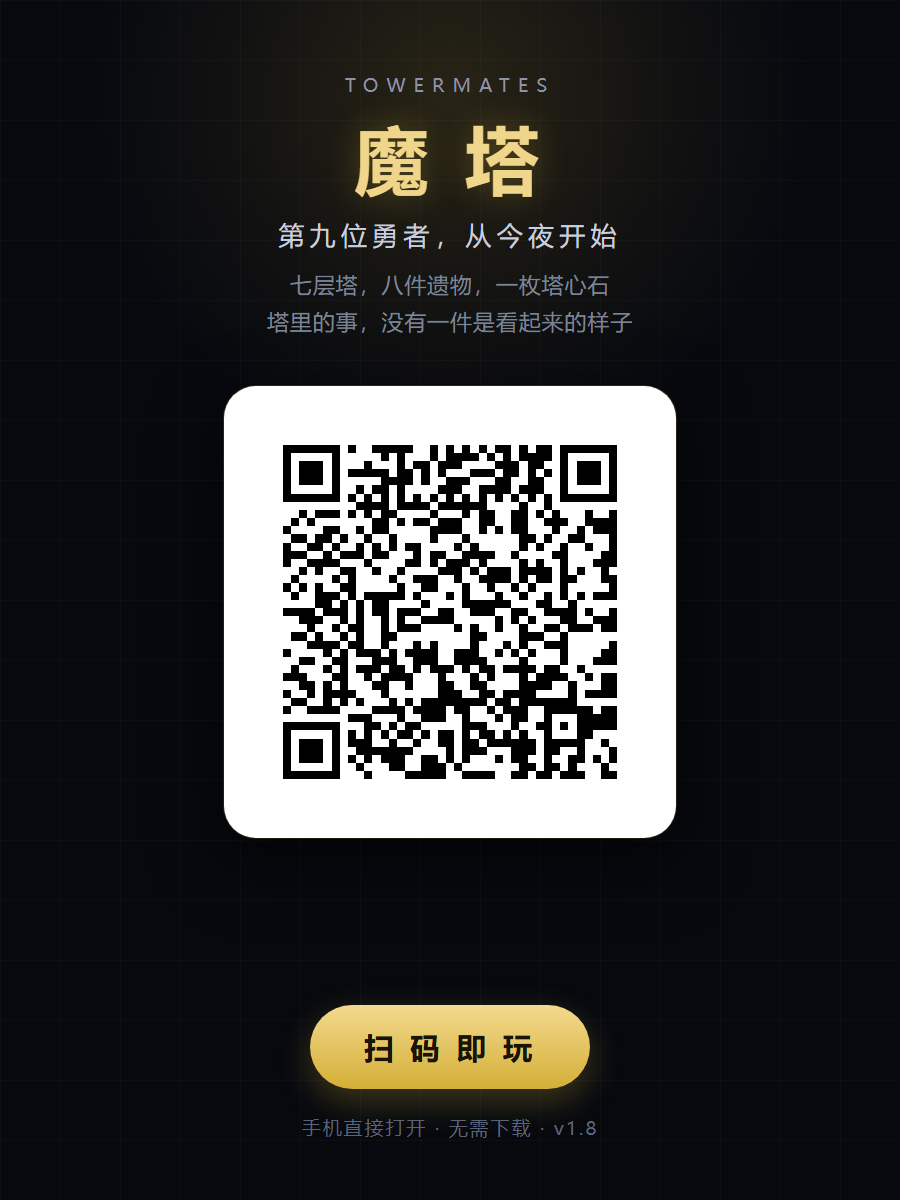
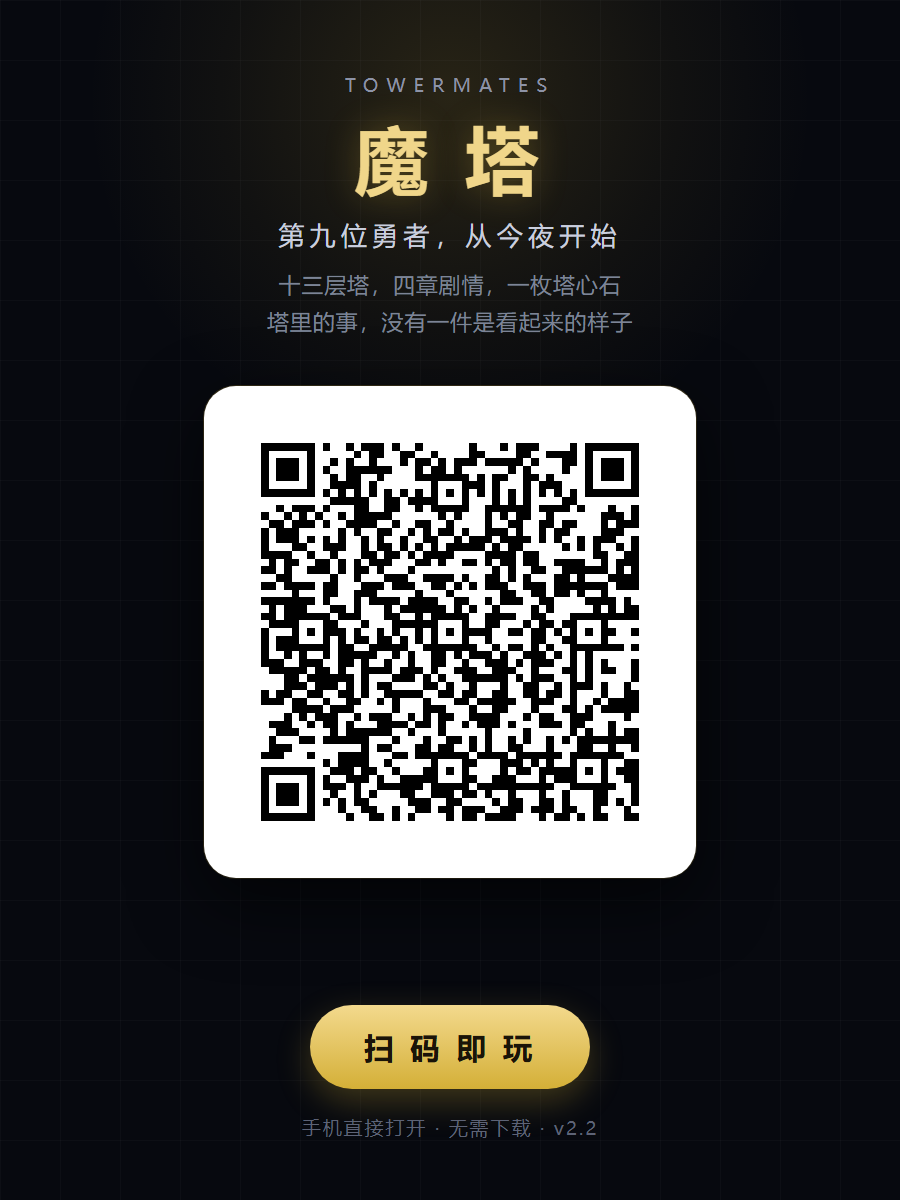
feat(share): v2.2 直达链接跳过教学卡 + 刷新分享二维码

Changed region(s): [[0.2178, 0.3083, 0.7778, 0.74], [0.3111, 0.2158, 0.6844, 0.2467]]

diff --git a/index.html b/index.html
@@ -7,9 +7,9 @@
 <meta http-equiv="Cache-Control" content="no-cache, no-store, must-revalidate">
 <meta http-equiv="Pragma" content="no-cache">
 <meta http-equiv="Expires" content="0">
-<meta name="build" content="ea5c1ce8ba">
+<meta name="build" content="dc8dc41ebe">
 <title>TowerMates · 魔塔</title>
-<link rel="stylesheet" href="css/style.css?v=ea5c1ce8ba">
+<link rel="stylesheet" href="css/style.css?v=dc8dc41ebe">
 </head>
 <body>
 <div id="app">
@@ -505,19 +505,19 @@
   </div>
 </div>
 
-<script src="js/data.js?v=ea5c1ce8ba"></script>
-<script src="js/story.js?v=ea5c1ce8ba"></script>
-<script src="js/portraits.js?v=ea5c1ce8ba"></script>
-<script src="js/achievements.js?v=ea5c1ce8ba"></script>
-<script src="js/daily.js?v=ea5c1ce8ba"></script>
-<script src="js/engine.js?v=ea5c1ce8ba"></script>
-<script src="js/render.js?v=ea5c1ce8ba"></script>
-<script src="js/ads.js?v=ea5c1ce8ba"></script>
-<script src="js/main.js?v=ea5c1ce8ba"></script>
-<script src="js/challenge.js?v=ea5c1ce8ba"></script>
-<script src="js/wxbridge.js?v=ea5c1ce8ba"></script>
-<script src="js/touch.js?v=ea5c1ce8ba"></script>
-<script src="js/gate-forth.js?v=ea5c1ce8ba"></script>
-<script src="js/wxwire.js?v=ea5c1ce8ba"></script>
+<script src="js/data.js?v=dc8dc41ebe"></script>
+<script src="js/story.js?v=dc8dc41ebe"></script>
+<script src="js/portraits.js?v=dc8dc41ebe"></script>
+<script src="js/achievements.js?v=dc8dc41ebe"></script>
+<script src="js/daily.js?v=dc8dc41ebe"></script>
+<script src="js/engine.js?v=dc8dc41ebe"></script>
+<script src="js/render.js?v=dc8dc41ebe"></script>
+<script src="js/ads.js?v=dc8dc41ebe"></script>
+<script src="js/main.js?v=dc8dc41ebe"></script>
+<script src="js/challenge.js?v=dc8dc41ebe"></script>
+<script src="js/wxbridge.js?v=dc8dc41ebe"></script>
+<script src="js/touch.js?v=dc8dc41ebe"></script>
+<script src="js/gate-forth.js?v=dc8dc41ebe"></script>
+<script src="js/wxwire.js?v=dc8dc41ebe"></script>
 </body>
 </html>

diff --git a/publish/index.html b/publish/index.html
@@ -7,9 +7,9 @@
 <meta http-equiv="Cache-Control" content="no-cache, no-store, must-revalidate">
 <meta http-equiv="Pragma" content="no-cache">
 <meta http-equiv="Expires" content="0">
-<meta name="build" content="ea5c1ce8ba">
+<meta name="build" content="dc8dc41ebe">
 <title>TowerMates · 魔塔</title>
-<link rel="stylesheet" href="css/style.css?v=ea5c1ce8ba">
+<link rel="stylesheet" href="css/style.css?v=dc8dc41ebe">
 </head>
 <body>
 <div id="app">
@@ -505,19 +505,19 @@
   </div>
 </div>
 
-<script src="js/data.js?v=ea5c1ce8ba"></script>
-<script src="js/story.js?v=ea5c1ce8ba"></script>
-<script src="js/portraits.js?v=ea5c1ce8ba"></script>
-<script src="js/achievements.js?v=ea5c1ce8ba"></script>
-<script src="js/daily.js?v=ea5c1ce8ba"></script>
-<script src="js/engine.js?v=ea5c1ce8ba"></script>
-<script src="js/render.js?v=ea5c1ce8ba"></script>
-<script src="js/ads.js?v=ea5c1ce8ba"></script>
-<script src="js/main.js?v=ea5c1ce8ba"></script>
-<script src="js/challenge.js?v=ea5c1ce8ba"></script>
-<script src="js/wxbridge.js?v=ea5c1ce8ba"></script>
-<script src="js/touch.js?v=ea5c1ce8ba"></script>
-<script src="js/gate-forth.js?v=ea5c1ce8ba"></script>
-<script src="js/wxwire.js?v=ea5c1ce8ba"></script>
+<script src="js/data.js?v=dc8dc41ebe"></script>
+<script src="js/story.js?v=dc8dc41ebe"></script>
+<script src="js/portraits.js?v=dc8dc41ebe"></script>
+<script src="js/achievements.js?v=dc8dc41ebe"></script>
+<script src="js/daily.js?v=dc8dc41ebe"></script>
+<script src="js/engine.js?v=dc8dc41ebe"></script>
+<script src="js/render.js?v=dc8dc41ebe"></script>
+<script src="js/ads.js?v=dc8dc41ebe"></script>
+<script src="js/main.js?v=dc8dc41ebe"></script>
+<script src="js/challenge.js?v=dc8dc41ebe"></script>
+<script src="js/wxbridge.js?v=dc8dc41ebe"></script>
+<script src="js/touch.js?v=dc8dc41ebe"></script>
+<script src="js/gate-forth.js?v=dc8dc41ebe"></script>
+<script src="js/wxwire.js?v=dc8dc41ebe"></script>
 </body>
 </html>

diff --git a/js/main.js b/js/main.js
@@ -12,6 +12,7 @@
   let warnTimer = null;
   let battleBusy = false;
   let guideTimer = null;
+  let quickStart = false; // ?play=1 直达：跳过开局教学卡，落地即可操作
   let hintPump = null;
   let hintAuto = null;
   let hintSeq = 0;
@@ -4284,9 +4285,10 @@
       if (Engine.vow() !== 'none') log(`你立下了${vs.name}：${vs.desc}`, 'gold');
       log('你踏入了魔塔。塔顶传来极轻的、像铃声一样的声音。', 'gold');
       if (seenIntro) log('序章在读过了——设置里可以重看。', 'dim');
-      // 开局教学：不再走对白——棋盘标注（高亮格子 + 虚线 + 说明卡），点击「知道了」才收。
+      // 开局教学：棋盘标注（高亮格子 + 虚线 + 说明卡），点击「知道了」才收。
       // 用 setTimeout 避开对白关闭的同步栈：等遮罩过渡完、布局稳定后再量尺寸定位。
-      setTimeout(() => Tips.show('opening'), 350);
+      // 直达链接 ?play=1 不弹这张卡，保证扫码/点链接落地即可操作；普通入口保留引导。
+      if (!quickStart) setTimeout(() => Tips.show('opening'), 350);
     };
     if (seenIntro) begin();
     else playStory('intro', begin);
@@ -4483,8 +4485,9 @@
     // 分享直达：?play=1 自动开局并跳过序章，落地即是可操作的地图
     // 不带此参数时仍走正常流程（开始界面 → 四选一誓约 → 序章）
     const qs = new URLSearchParams(location.search);
+    quickStart = qs.get('play') === '1';
     if (qs.get('funnel') === '1') showFunnelView();
-    if (!demo && qs.get('play') === '1') {
+    if (!demo && quickStart) {
       startGame('none');
       skipDialog();
     }

diff --git a/publish/js/main.js b/publish/js/main.js
@@ -12,6 +12,7 @@
   let warnTimer = null;
   let battleBusy = false;
   let guideTimer = null;
+  let quickStart = false; // ?play=1 直达：跳过开局教学卡，落地即可操作
   let hintPump = null;
   let hintAuto = null;
   let hintSeq = 0;
@@ -4284,9 +4285,10 @@
       if (Engine.vow() !== 'none') log(`你立下了${vs.name}：${vs.desc}`, 'gold');
       log('你踏入了魔塔。塔顶传来极轻的、像铃声一样的声音。', 'gold');
       if (seenIntro) log('序章在读过了——设置里可以重看。', 'dim');
-      // 开局教学：不再走对白——棋盘标注（高亮格子 + 虚线 + 说明卡），点击「知道了」才收。
+      // 开局教学：棋盘标注（高亮格子 + 虚线 + 说明卡），点击「知道了」才收。
       // 用 setTimeout 避开对白关闭的同步栈：等遮罩过渡完、布局稳定后再量尺寸定位。
-      setTimeout(() => Tips.show('opening'), 350);
+      // 直达链接 ?play=1 不弹这张卡，保证扫码/点链接落地即可操作；普通入口保留引导。
+      if (!quickStart) setTimeout(() => Tips.show('opening'), 350);
     };
     if (seenIntro) begin();
     else playStory('intro', begin);
@@ -4483,8 +4485,9 @@
     // 分享直达：?play=1 自动开局并跳过序章，落地即是可操作的地图
     // 不带此参数时仍走正常流程（开始界面 → 四选一誓约 → 序章）
     const qs = new URLSearchParams(location.search);
+    quickStart = qs.get('play') === '1';
     if (qs.get('funnel') === '1') showFunnelView();
-    if (!demo && qs.get('play') === '1') {
+    if (!demo && quickStart) {
       startGame('none');
       skipDialog();
     }

diff --git a/.workbuddy/memory/2026-11-14.md b/.workbuddy/memory/2026-11-14.md
@@ -1,0 +1,144 @@
+# 2026-11-14
+
+## 10:3x 自动推进轮 · 全力模式（锁环：已装面板 + 双挡之环，commit e6463ba，线上 build 83f7a9f835）
+- 判定：PROGRESS mtime 67 分钟、工作树只有本会话记忆目录 + `_backup/` → 全力模式；占用表空、无排队行。
+- **已装面板**：章末回响（`index.html` `#echoOwned` + `main.js openEcho`）在第 2 章起显示「已装 N 枚」逐行 `emoji 名 · 效果`；章 1 第一次挑 0 枚时整块 `hidden`，不占首章预算。零数值、零新交互。
+- **双挡之环**（`twice`，第 2 章池 9→10，全池 36→37）：每层格挡 1→2。引擎把 `flags.block_f<层>` 布尔改计数 `block_n<层>`，新增 `blockLimit()` / `blockLeft()`；**老档只有布尔按已用 1 次算**（旧档不作废）。同步三处口径：HUD `🛡剩N`（`.blockpip.twice` 放宽 20px）、战斗面板「本层剩 N 次 · 承伤 −X%」、`title`。顺手堵白拿：`ringChoices()` 对不能格挡的三条誓约滤掉 `parry`/`twice`。
+- 闸门：engine **390**（+8）/ check ✓ / code 45 ✓ / **sim 18,745·68.4% 未漂移**（sim 不模拟格挡）/ regress **47 图**（+`echo2`、`+battletwice`）+ 首局节奏 1·1·1·4·3·2·63s / 新玩家 41 / 广告 17 / 手感 10ms 全绿。
+- 踩坑（下轮直接用）：`tools/shot.html` 新场景必须**同时**加进 `SCENES`（regress.js）与顶部 `src` 映射表——只加分支不加映射会落到开始页，`E.state()` 返回 null，截出的图带 `Cannot read properties of null (reading 'flags')` 且**体积照样 >8KB 不会被闸门拦下**（必须目视）。放大看 HUD 用 `?scene=xxx&zoom=2` + 临时 serve，同轮 kill。
+- 未覆盖：第 1/3/4 章锁环池仍各 9 枚（第 1 章「资源起步」定位待定）；再往下结构性缺口是战斗内只有一个格挡按钮（核心决策厚度，需单轮大改）。
+
+## 02:54 自动推进轮 · 全力模式（P-C + P-A 落地，commit bba5a83 + ecf26c7，线上 build 9f423672e3）
+- 判定：并行会话 02:0x 已提交 v2.2（21c5716），工作树干净，`index.html` mtime 59 分钟前 → 全力模式；上轮 `[排队] P-C` 的等文件条件解除，开轮先做它。
+- **P-C**：`.choice-hint` 文案改「点卡片选择 · 或 ← → 切换、Enter 确认」，卡片 `cc-hint` 补「点它 或 ←/→」；两处色值 `#4e5666`(2.7:1) / `#444c5c` → `var(--muted)`(≈7:1)，不再散落裸色。截图 `tools/out/choice.png` / `heart.png` 目视确认。
+- **P-A**：`engine.js` 新增 `shuffleFloor1(map, seed)`（mulberry32），第 1 层红药水+金币每局换位；**只挪散落物，地图骨架/怪物/门/总量/数值全不动**；起点 3×3 排除（保住首战 63s 教学节奏）；`newGame(vow, opts)` 支持 `opts.seed`，**seed 0 = 原版布局**（工具要可复现读数时用）。
+- 关键事实：`tools/sim.js` 自建状态、**不走 newGame**，所以 sim 基线天然不受影响（实测 18,745 / 68.4% 未漂移）——这类"改地图生成"的活要保住平衡读数，认准 sim 的入口。
+- 闸门：engine-test **328 项**（+7 变体断言）/ check ✓ / code 38 ✓ / regress 39 图 + 新玩家 41 + 广告 17 + 手感 10ms + 首局节奏 1·1·1·4·3·2·63s 全绿。
+- 部署坑：`git push` 走 https 报 `schannel: failed to receive handshake`（连试 2 次），改 `git push ssh://git@ssh.github.com:443/InterestingHui/TowerMates.git master` 成功；线上资源验证要带 `?sharecode=U7XMLC2NKJ`，裸路径一律 403「链接不完整」。
+- 未覆盖：第 2–3 层与商店货架仍逐局固定；下一步优先 P-B 每日一塔（打 S-D2 无日替钩子）。
+
+## 02:0x 自动推进轮 · 变体 1（换视角诊断，谨慎模式）
+- 判定：PROGRESS.md mtime 301 分钟前，但工作树有**并行会话正在写**（01:36–01:48 连续改 index.html / css/style.css / js/main.js / js/portraits.js / tools/*，共 11 改 + 11 新增未跟踪；serve 8799/8891/8856 三个进程存活，非本会话）→ 谨慎模式，不碰冲突文件、不部署。
+- 产出（纯读）：变体 1 换视角诊断，结论已写入 PROGRESS.md 待办区新增小节 + 工作日志第 281 行；commit 74696bb 已推送（只 add PROGRESS.md）。
+- 关键结论：**S-D1 前 3 层每局逐格相同**（固定地图 + `engine.js:939 shopStock()` 确定性 + 首个路遇在第 3 层）→ 第二局开局 8–10 分钟照已知解执行，变化源（锁环/路遇/祭坛）全在第 4 层后，属「好玩但第二天不回来」级别。微观真问题 2 条：抉择/塔心石两处只写键盘键位说明（index.html:445/470，卡片实际可点 main.js:3656）；该提示 `#4e5666` 对比度仅 ≈2.7:1。
+- 否定项留档：点格子寻路**已有教学**（story.js:408 教练卡原文），不算缺陷，别再重复"发现"。
+- 候选：P-A 开局层每局微变 / P-B 每日一塔（固定种子+每日榜）/ P-C 决策页提示改触屏文案+提对比度。P-C 已留 `[排队]` 行在占用表，下轮若 index.html、css/style.css 空出第一件事做它。
+
+## 01:32–02:00 美术升级 v2.2（混合媒介落地，commit 21c5716，线上 build e91c767072）
+- 路线按圣经 §3.6：人物大图走位图（已有 8 张 512×640 透明 WebP，297.9KB），68–84px 槽位仍用 SVG，不做矢量化/不手工堆零件。
+- 关键发现：魔王与炎魔此前共用 `BODY.torch`，32px 纯黑**完全相同**——拆出魔王独立骨架（双角盔+钥匙剑+胸前挂锁）；墨妖/钟妖/碑魔也各自成体（此前三人共用炎魔骨架）。
+- rim 实现：不用手画路径，改为「主轮廓 path 复制 + 双轴 mask 相乘（x 权重 × y 权重）」，暖金只留右上 45°，冷蓝左下 ≤30%；Boss 1.6px / 普通 1.15px。160px 下不再像霓虹。
+- 尺寸实测（offsetWidth，避免无头动画 scale 干扰）：对白槽 84×105@430、68×85@375；放大层与 Boss 卡均 320×400，位图 512×640；图鉴人物卡 54×68、4 列 81px。
+- 两个新展示位：Boss 出场卡（1.2s 自动过、点击/ESC 0ms 跳过、放完继续 enterFloor）；人物图鉴 8 条 → 320×400 大图，ESC 关、图鉴保持、对白不受影响。
+- UI：表面四阶/描边四档/文字三阶/黄铜三阶/字阶五档全 token；主文 13.41:1、次文 7.49:1；黄铜面积 play 0.95% / codex 4.12%。
+- 闸门：check ✓ / code 38 / engine 320 / sim 18,745·68.4% / battle-sim 13 / 39 图 / ui-test ✓。线上资源 css/js/webp 均 200（需 sharecode cookie）。
+- 教训：无头 `--virtual-time-budget` 会冻结 CSS 入场动画，`getBoundingClientRect` 量到 scale(.975) 的假尺寸；量展示位必须用 offsetWidth。
+
+## 04:05–04:50 P-B 今日一塔（commit 64fdf13，线上 build 34e28b5791）
+- 判定：mtime 65 分钟 + 工作树只有本会话/记忆目录 → **全力模式**；上轮 P-B 无记录，直接开工。
+- 结构：`js/daily.js`（本地 YYYY-MM-DD → FNV-1a 32 位，种子非 0）+ 日签 `flags.daily` + `flags.rngSeed/rngN`。
+  引擎新增 `nextRand()`：**只有带 rngSeed 时才走种子**，普通局原样 Math.random → 平衡零风险（sim 18,745·68.4% 未漂移）。
+  四处「看到什么」的抽取换到 nextRand：首层换位 / pickEvent / ringChoices / altarChoices；Boss 台词复用 phaseSeed=dailySeed。
+- rngN 计数**跟着存档走**：中途刷新续玩不会把整串抽取重摇（这是把种子写进 flags 而不是内存 rng 的原因）。
+- 入口只在第 2 局起出现（首局开屏 ≤1 的闸门不能被破）；有存档时复用 reset-confirm 弹窗，改成通用 `askConfirm(opts)`。
+- 榜单加「今日」档；昨天续玩在 continueGame 里清旧日签，避免结算挂旧标签。
+- 顺带修两个老 UI bug（新表面照出来的）：.bd-time 固定 60px 导致「10分40秒」竖断四行 → 列改 auto + nowrap；
+  带余裕徽记的行有 7 个网格项 → 用时被挤到第二行 → 徽记并进结局列（结局 76px），名字列拿回宽度（川的名字不再截断）。
+- 闸门：engine 341（+13）/ regress 42 图 + 「今日一塔」三断言（入口在、今日档 1 条、结算带日签）/ 首局节奏 1·1·1·4·3·2·63s 不变。
+- 已知缺口（记待办）：挑战码还没带日期 → 朋友贴进来的码进不了「今日」档（要 v5 码第 11 段）。
+
+## 05:20–05:55 自动推进轮 · 全力模式（挑战码 v5 带日签，commit 4ee6e76，线上 build 3e45a799ce）
+- 判定：PROGRESS.md mtime 63 分钟 + 工作树仅本会话记忆目录 → 全力；占用表无他人行。上一轮点名的「挑战码 v5」无落地记录 → 开轮做它。
+- `js/challenge.js`：前缀 `TM4.`→`TM5.`，raw 10 段→11 段，末段 `YYYYMMDD`（**不带横线**，省 2 字符且不用转义分隔符）；解码 v5 归一成 `YYYY-MM-DD`（月 1–12 / 日 1–31 校验）。
+  **关键设计**：v1–v4 四个旧分支全部补 `daily: ''` —— 老码照常能贴，只是按普通局处理、不进今日档；旧名录零破坏。
+- `js/main.js`：`decodeChallenge` 透传 `daily`；贴码提示对今天的码追加「· 今天这座」；「今日」档脚注补一句「朋友码只要也是今天这座就会进这一档」。
+- 零数值改动：只改比分口径，`sim` 18,745 · 68.4% 未漂移。
+- 闸门：code-test **45 项**（38→45）/ engine 341 / check ✓ / ui-test **+3 断言**（今日码带日签且 ≤80 字符 / 朋友今日码进今日档 / 普通码进不去）/ regress 42 图 + 首局节奏 1·1·1·4·3·2·63s 全绿。线上 build 3e45a799ce 已验证（`challenge.js` 含 `PREFIX='TM5.'` + dayCode）。
+- 复用要点：挑战码长度上限被 ui-test 卡在 80 字符，加段前先算长度（v5 约 56 字符，还留余量）；ui-check 里切榜档要在 paste 之后**重新查一次 tab 元素**（openBoard 会整块重渲）。
+- 环境：本轮未起常驻进程（闸门脚本自起自关）；`serve.js 8799`（PID 201008）属另一会话，仅记录不动。
+- 剩余：第 2–3 层布局与商店货架仍逐局固定（S-D1 的另一半，动它有平衡风险，需要单独一轮 + sim 兜底）。
+
+## 06:26–06:4x 自动推进轮 · 全力模式（P-3 后续：路遇池扩容，commit db4afdb，线上 build fa1d441168）
+- 判定：PROGRESS.md mtime 62 分钟 + 工作树仅本会话记忆目录/`_backup/` → 全力；占用表空、无 `[排队]` 行。
+- 选活：上轮剩余「第 2–3 层布局与商店货架逐局固定」有平衡风险，先做待办里那条不动数值的「P-3 后续 · 路遇池扩容」。
+- `js/data.js`：a/b 两池各 +2 → **8/8/8（共 24 条）**。浅层「漏水的陶罐」（金币+110/生命−5% ↔ 回20%）、「墙里的风」（+130/−7% ↔ 回11%）；深层「枯井」（+380/−14% ↔ 余烬+2）、「没人看的秤」（金币+260/防−1 ↔ 防+2 ↔ 回12%）。
+- **关键手法**：新条目一律追加在各分池末尾——`sim.js` 用 `pool[fi % pool.length]` 取整条事件，追加不挪索引 → 平衡读数零漂移（18,745 · 68.4%）。以后加路遇照这个位置放。
+- `tools/engine-test.js` +12 项（341→353）：池厚度 ≥6、每条 ≥2 选项且 label/tip/msg/effect 齐全、**effect 键白名单**（写错的键会被 applyEffect 静默忽略，选项变「白点一下」）、四条新事件逐条核对落地数值与 tip 一致。
+- 手工验证：临时给 `shot.html` 加 `eventnew` 场景截「没人看的秤」面板 → 三选项换行/提示对齐正常；用完已还原 shot.html 并删临时图，临时 serve 8991（PID 204736）同轮 kill。
+- 闸门：check ✓ / engine 353 / code 45 / sim 18,745·68.4% 未漂移 / regress 42 图 + 首局节奏 1·1·1·4·3·2·63s / 新玩家 41 / 广告 17 / 手感 10ms 全绿。
+- 剩余：**第 2–3 层布局与商店货架仍逐局固定**（S-D1 另一半，需单独一轮 + sim 兜底）；锁环池 36 枚可继续扩（优先第 1–2 章「改变玩法」的环，别再堆计数器型收藏）。
+
+## 07:35–08:1x 自动推进轮 · 全力模式（P-A2 第 2–3 层散落物换位，commit 4c15965，线上 build b504472250）
+- 判定：PROGRESS mtime 62 分钟 + 工作树仅本会话记忆目录/`_backup/` → 全力；占用表空、无 `[排队]` 行。
+- 选活：上轮剩余的「第 2–3 层逐格固定」，做不动数值的那半（货架抖动仍留待办，需 sim 兜底）。
+- `shuffleFloor1` → `shufflePickups(map, seed)`（旧名保留）；第 2/3 层用 `subSeed(mapSeed, SUBSEED_F2/F3)` 各派生一颗种子，`newGame` 一次换完前 3 层。只挪 `p`/`$`，骨架/怪物/门/商店/祭坛/楼梯/总量零改动。
+- **坑 1**：原实现把起点 3×3 排除写死 `sx=1,sy=1`，没有 `@` 的楼层会白扣左上 9 格候选 → 改为「有 `@` 才排除」。
+- **坑 2（重要，泛化任何随机化都会遇到）**：`engine-test` 里两处硬编码坐标的测试被换位打红——①「踩药水回血」假设药水上方恒为地面；②「事件格不能再踩出第二次回血」假设 (8,6) 是空格。修法：先找可站立邻格（注意 tryMove 传的是**移动方向**，站 `药水+偏移` 处要朝 `-偏移` 走），以及把测试用格显式清成 `.`。**教训：给地图加随机化后，必须扫一遍所有硬编码坐标的单测，连跑 40 次才算稳。**
+- `ui-check` 的「第 3 层立足格」只认 `.`，换位后可能摆着药水/金币（都是可走格）→ 改判 `. / p / $` 都可走。
+- 截图套件 +2 景（floor2 / floor3），`#demo=楼层,x,y[,种子]` 新增可选第 4 段种子（固定 424242 可复现），42→44 图。
+- 加练：游戏性 焦点D（新内容可理解性）——四条新路遇都明码，无门槛；「今日一塔」按钮补 `· 不立誓`（该模式跳过立誓，不说清楚老玩家会以为少了一步）。
+- 闸门：engine 367 / code 45 / check ✓ / sim 18,745·68.4% 未漂移 / regress 44 图 + 首局节奏 1·1·1·4·3·2·63s / 新玩家 41 / 广告 17 / 手感 10ms / 序章 9 全绿。临时 serve 8931 同轮 kill（复查 serve 进程 0）。
+- 环境注意：序章自检在跑完 44 张截图后偶发 7/9（资源竞争），单独跑 5/5 全过；不是本轮改动引起。
+
+## 09:05–09:4x 自动推进轮 · 全力模式（P-A3 商店行情，commit 00bafab，线上 build 930db4d8b0）
+- 判定：PROGRESS mtime 78 分钟 + 工作树仅本会话记忆目录/`_backup/` → 全力；占用表空、无 `[排队]` 行。
+- 选活：上一轮点名的「商店货架 `shopStock()` 逐局固定」（S-D1 最后一块）。设计上避开价格抖动/改库存，改成「每层一件可重复货让价 7 折」。
+- `engine.dealOf()`：`mulberry32(mapSeed ^ hash(floor))` 派生挑货，**不消耗 nextRand**（路遇/锁环/祭坛序列一字不动），落 `flags.deal_<层>` → 重进商店/重来本层不重摇。一次性货（盾谱/镜子/灯芯/碎片）永不让价。
+- **关键坑（下轮直接用）**：改 `priceOf` 会让所有「扣 X 金」老单测随机变红（本轮首跑就抖了 3~8 项，两次跑红的不一样）。解法不是逐个改断言，而是 **`openShopAt()`：行情只在该层商店被打开后才落定**——纯引擎调用/结算/提示永远拿原价，老断言口径不变，也顺带合理（摊主开口才报价）。
+- UI：`#shopDeal` 额头一行「秤今天松了口：护甲强化 ~~60~~ → 42」+ 商品名旁 `.si-tag.deal`「让价」。让价那件可能被折进「更多货」，所以额头先说。
+- 闸门：engine 367→**382**（+15）/ code 45 / check ✓ / sim **18,745·68.4% 未漂移** / regress **45 图**（+shop 场景，`#demo=2,4,3,424242` 固定种子）+ 首局节奏 1·1·1·4·3·2·63s / 新玩家 41 / 广告 17 / 手感 10ms 全绿。线上 curl 验证 engine 4 处 dealOf/openShopAt、main「秤今天松了口」、css `shop-deal`。
+- 本轮未起常驻进程（regress 自带起停），收尾复查无 `tools/serve.js` 残留。
+- 剩余：锁环池 36 枚扩容（ch1–2 补「改变玩法」环）；「更多货」摘要写死三件名（已记待办）；再往下的结构性缺口是「战斗只有一个格挡按钮」的决策厚度，属大改。
+
+## 12:5x 锁环第 6 轮：第 3 章「过手之环」（战意门槛前移）· commit ab62c81
+- 待办那句「第 3 章只作用于第 10–13 层，先想清楚它能改变哪个决定」的答案是**战意**：那是最后三层唯一贯穿的取舍（清塔攒减伤 vs 绕道省血），而门槛（25/40 杀）此前要打到碑魔才看见。
+- 新环 `merit`（ch3 池 9→10）：门槛整体前移一档 → 20 杀 −16% / 33 杀 −36%；**只改门槛不改公式**，满档比例与乘区不动。
+- **门槛单点定义 `zealNeed()`**（25/40 或 20/33）：战意公式、HUD、结算 S 提示三处同源。教训——同一数字写在三处必有一处说谎（本轮结算 ⓘ 与收藏页都还写着 40，已修）。
+- HUD `🎯 已杀/门槛`（`zealNext()`，无环时 null 不显示），到档变金「🎯 满」，点一下念「再打 N 只」。
+- 闸门：engine **412**（+12）/ code 45 / check ✓ / sim **18,745·68.4% 未漂移**（sim 不选环）/ regress **48 图** + 新断言「过手之环顶栏 徽记 🎯 12/20」/ 首局节奏 1·1·1·4·3·2·63.1s 未变。
+- 坑：锁环徽记与顶栏徽记同用 🎯 会挤成一对同图标（改 🥊，放大截图核对 20px 可辨）；徽记 emoji 选型要**实际截图看渲染**，🎖 在 headless 里被压成窄条。
+- 剩余：第 4 章池 9 枚未扩（只作用于锁芯+结算，能改的决定少，先想清楚再加）；结构性缺口＝战斗内只有格挡一个主动决策。
+
+## 14:2x–14:5x 自动推进轮 · 全力模式（变体 2 阶段检查 + 锁环第 7 轮「净芯之环」，commit 3291f5f，线上 build e510da2a4a）
+- 判定：PROGRESS mtime 73 分钟 + 工作树仅本会话记忆目录/`_backup/` → 全力；占用表空、无 `[排队]` 行。
+- **变体 2 阶段判定**（已写进规格卡新增「阶段」行，下次不再重复判）：量产后期 / 上线前调优。按 D-02 口诀自查，前十分钟美术（SVG 剪影 + 黄铜，v2 未拍板不动）、首月成长（余烬/誓约/成就/图鉴已够）、之后玩法（今日一塔已补日替）都不缺，**只有「第一天靠战斗」空缺**——整场战斗仍只有格挡一个主动决策。结论：**锁环系列封顶，四章各 10 枚，不再加**；下一阶段的活转向战斗内决策厚度 / 真人数据漏斗。
+- `clean` 净芯之环（第 4 章 9→10）：锁芯层每倒一只 +2 余烬（四只上限 +8）。回答待办悬着的「第 4 章还能改哪个决定」——第 13 层是环形走廊，塔心石在正中可直接走到，四角怪守着后半部盾谱；此前「绕」永远是对的（余烬只按通关算）。计数写 `flags.clean_kills`（战斗结算里累加，`s.floor === 12`），折算**单点** `Engine.cleanEmber()`，结算明细读它。
+- **坑（本轮踩到，下轮直接用）**：`tools/ui-check.html` 的探针脚本跑在**父页面**上下文，读页面数据必须用 `w.GAME_DATA`（iframe），写成 `window.GAME_DATA` 会 undefined 抛错、**把后面 34 项断言全带红**（表现为「解锁誓约首通」「余烬估算」等无关项失败）——看到大片无关失败先怀疑探针抛异常，不要逐个查业务。
+- 图鉴计数文档过时：原写「49 件（38 锁环）」，实际 40 锁环 + 11 遗物 = 51，规格卡与元素登记已改正。
+- 视觉核对：临时场景 `ringclean` 截第 4 章回响面板（已装 2 枚 + 三选一），🧹 渲染成可辨扫帚、desc 三行不溢出卡片；探针用完已还原 shot.html + 删临时脚本（临时截图脚本用「起 serve → 截 → 同轮 kill」的自包含写法，避免进程残留）。
+- 闸门：engine **419**（412→419）/ code 45 / check ✓ / sim **18,745·68.4% 未漂移** / regress **48 图** / ui-test **+1 断言**（净芯清 3 只 → 结算 +6，走 emberOf 同源）/ 首局节奏 1·1·1·4·3·2·63.1s 未变 / 新玩家 41 / 广告 17 / 手感 10ms。`ring-audit` 新环折算 1600（均值 1026）。
+- 剩余：**战斗内只有一个格挡**（结构性缺口，属大改，需单独设计 + sim 兜底）；14 天体检未到期。
+
+## 15:4x 战斗内第二决策「抢攻」+ ⚔ 图标退化（commit 4b256ec，线上 build 8a09d4ff19）
+- **抢攻**：第 2 章起战斗面板第二个按钮。少挨一轮（predictBase 的 hits −1），这一战经验归零（击杀计数/战意/金币/锁环照常）。与格挡**二选一**（引擎里 blocked 优先），**不做保命兜底**（生死判定仍按白打口径）。入口 `Engine.rushInfo(ch)`：省不下血或没经验可失时返回 null。门槛三条：`s.floor>=3`、`pred.blockSave` 时不出、`worth` 同格挡口径。
+- **图标坑（重要，可复用）**：`⚔`(U+2694) 是 BMP 符号，**各系统都会被文本字体先接走渲染成叉号**（不是 headless 独有）；带 VS16（⚔）在浏览器里也不保证。emoji 区字符（🗡/🛡/📖）才走 emoji 字体。实测对照：改了 21 处 ⚔→🗡（index/js 全部）。**反向教训**：📖 在 headless 里显示白框只是字体子集缺失，真机正常，别乱改。
+- 验证方式（新范式）：`tools/shot.html` 加 `rushbattle` 场景（#demo=3,5,5 + 场景内改 atk/def/hp），`q2push` 输出按钮文案与引擎读数，regress 里加「抢攻面板自检」断言（面板在 / 承伤与引擎同源 / 代价写明）。
+- 闸门：engine **433**（419→433）/ code 45 / check ✓ / sim **18,745·68.4% 未漂移** / regress **49 图** / 首局节奏 1·1·1·4·3·2·63s 未变 / 新玩家 41 / 广告 17 / 手感 10ms 全绿。
+- 已否方案：`磨`（多挨几轮换金币）——本作兑换率下天然亏本（红药 60 金 = 80 血，怪物掉金远低于承伤折价 ×1.33），除非倍率 ≥3 才有意义，会引金币膨胀。下一步候选见 PROGRESS 待办（信息类：本层剩余威胁排序 / 挡哪一场）。
+
+## 16:5x 自动推进轮 · 全力模式（战斗厚度第二步：本层威胁读数，commit 97cc9df，线上 build c5a63f5d01）
+- 判定：代码 mtime 64 分钟（15:42）、工作树仅本会话记忆目录 + `_backup/` → 全力；占用表空、无 `[排队]` 行。
+- 选活：待办「战斗厚度第二步」候选②（信息类、零数值风险）。做了 `Engine.floorThreat(floor, skip)` + 战斗面板一行「这一层还剩 N 只 · 最贵 怨灵 白打 −126」。
+- **两个坑（下轮直接用）**：①`playBattleScene` 在 `Engine.fight` **之前**渲染 → 渲染时那只怪还在图上，威胁读数会把「正在打的这只」算进去，出现「还剩 2 只 · 最贵 石像鬼」而正在打石像鬼 → `floorThreat(floor, skip)` 传目标格排除；②「最贵 X −126」会被读成「打它必掉 126」（实际是白打口径、不含格挡）→ 文案补「白打」二字。以后任何「战斗中读数」都要先想清楚「正在处理的那个」算不算。
+- 面板时机：第 2 章起（`s.floor >= 3`）、排除当前目标后还剩 ≥1 只才显示，一行 11px 读数、不加按钮。
+- 闸门：engine **450**（433→450）/ code 45 / check ✓ / sim **18,745·68.4% 未漂移** / regress **49 图** + 抢攻面板自检新增「面板数字 == 引擎读数」断言 / 首局节奏 1·1·1·4·3·2·63s 未变。
+- 环境：`git push` 第一次 ssh 报 `Connection closed by 198.18.0.194`（代理抖动），**原样重试一次即过**——别改参数。本轮无残留 node 进程（已复查）。
+- 剩余：「挡哪一场」（把格挡的作用面从「任意一场」改成「指定那一场」）需单独设计 + sim 兜底；「磨」已否。
+
+## 17:5x 自动推进轮 · 全力模式（战斗厚度第三步：架盾，commit 5abfacb，线上 build ea5c1ce8ba）
+- 判定：PROGRESS mtime 62 分钟（16:56）、工作树只有本会话记忆目录 + `_backup/` → 全力；占用表空、无排队行；另一会话的 serve 8799 已消失。
+- 选活：待办「战斗厚度第三步 ②」。**待办原话（把格挡作用面改成「指定那一场」）按字面做会毁掉身份**——全明码 + 进层看得见全层怪，先指定等于用已知信息做算术，还多一个「指错白费」的坑。改成同一件事的另一面：**作用面二选一**，🛡 格挡（集中，这一场 ×0.55）/ 🧱 架盾（摊平，花一次额度，本层此后每场 ×0.85）。
+- 三条设计约束（下轮加类似选项照这个想）：①架盾固定 0.85、**不吃盾谱/断刃加成**（否则格挡一升级架盾就无脑更优）；②只剩最后一只时**不出现**（0.85 摊一场必输给 0.55，是陷阱不是取舍）；③盾架着时**不给抢攻**（同上）。
+- **坑（下轮直接用）**：改完 `fightDamage` 的乘区后，**所有「白打」口径的读数会悄悄变成「打过折的」**——上一轮的 `floorThreat` 就是受害者（数字打 85 折、标签还写「白打」）。现在 `floorThreat` 多返 `spread`，面板据此改口。以后动 `fightDamage` 必须 grep 所有读它的展示层。
+- 另一坑：`maps[y][x]`，测试里写 `s.maps[3][5][8]` 是 (x=8,y=5) 不是 (5,8)——本轮因此白跑一次 `fight` 返回 idle。
+- 闸门：engine **473**（450→473）/ code 45 / check ✓ / sim 18,745·68.4% 未漂移 / regress **50 图**（+`guardbattle`）+ 新断言「架盾面板：余场数与引擎同源 / 比例写明 / 承伤=白打×0.85 / 入口条件」/ 首局节奏 1·1·1·4·3·2·63s 未变。
+- 部署：`workbuddy_sites_deploy`（publish/）返回的是 sandbox 子域链接且带「未拿到访问链接」告警，**但正式域名已更新**——以 `curl https://towermates.app.workbuddy.host/?sharecode=U7XMLC2NKJ | grep 'main.js?v='` 得 `ea5c1ce8ba`（等于 `node tools/sync-publish.js` 打的 build 号）为准。别再因为返回值怪异而重试部署。
+- 剩余：战斗厚度第三步余项只剩「战斗外取舍（进层先清哪半边）」，暂无不改数值的解法；下一步候选＝真人数据漏斗（`?funnel=1`）或美术 v2 提案。
+
+## 19:10 基于 v2.2 重发二维码
+- 线上核查：build ea5c1ce8ba → 改后 dc8dc41ebe，线上 index + main.js 与 publish 全同，页面「魔塔 · v2.2」。
+- 修复：v2.2 新加的「怎么走」coachCard 会挡住 ?play=1 直达链接。main.js 加模块级 quickStart（play=1 时为真），startGame 的 begin() 里据此跳过 Tips.show("opening")；普通入口仍保留完整教学。
+- 闸门：node tools/regress.js 全绿（50 张截图 + 好友榜/可理解性/节奏预算/今日一塔/抢攻/架盾自检）；headless 实测线上直达链接地图无遮挡。
+- 二维码重生成并覆盖：towermates-二维码.png、tools/towermates-qrcode.png（570px，纠错 H），指向 https://towermates.app.workbuddy.host/?sharecode=U7XMLC2NKJ&play=1；jsQR 解码两处均一致。
+- 分享图 扫码即玩-分享图.png 重渲染（900x1200），文案改「十三层塔」与 v2.2，整图解码验证通过。
+- 部署两次：第一次返回 applicationSyncWarning（发布态未同步），第二次成功无警告，链接不变。
